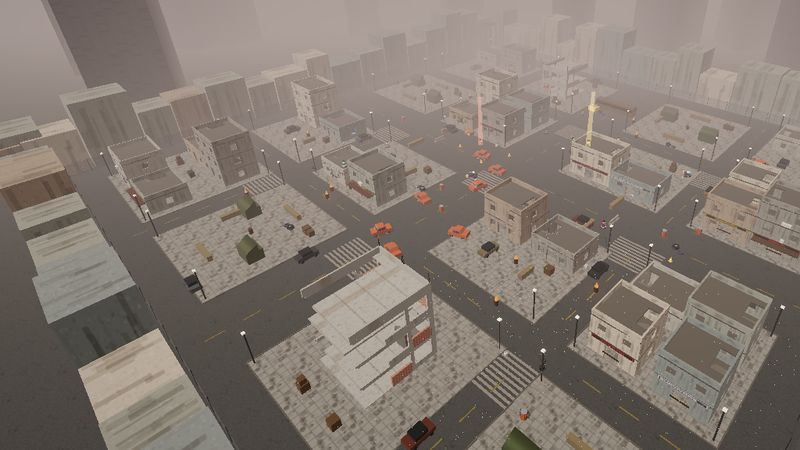
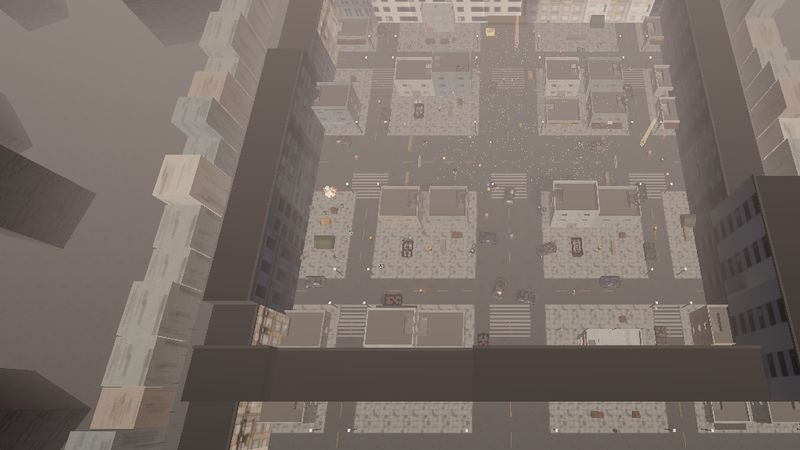
Shooter maps: photo-facade building ring at the play-zone edge
- Each shooter map is enclosed by a continuous row of buildings textured with real
  facade photos (Postwar City, CC BY 4.0), so the walkable limit is a visible street end
- Everything outside the zone is cropped; towers capped so they don't dwarf the arena
- Map previews re-rendered

Claude-Session: https://claude.ai/code/session_01TgEUxabUNaEosqrhebbJP7

diff --git a/index.html b/index.html
@@ -449,7 +449,7 @@
         <div class="secT">วิธีเล่น</div>
         <div class="small" style="text-align:left;line-height:1.7">🏁 <b>วิ่งแข่ง</b> ตอบโจทย์ให้ถูกและไว ยิ่งไวยิ่งวิ่งไกล ถึงเส้นชัยก่อนชนะ<br>🎯 <b>ยิงปืน</b> WASD เดิน · Shift วิ่ง · Space กระโดด · C นั่ง · คลิกซ้ายยิง · คลิกขวาเล็ง · 1/2/3 เปลี่ยนปืน · ยิงได้ 15 ครั้งก่อนหรือคะแนนสูงสุดใน 3 นาทีชนะ</div>
         <div class="secT">เครดิต</div>
-        <div class="small" style="text-align:left;line-height:1.7">VANGUARD ดัดแปลงจาก <a href="https://sketchfab.com/3d-models/bulletstorm-confederate-soldier-0222bdc42b2e4b8e948bc527c56955c7" style="color:#39FF14" target="_blank" rel="noopener">"Bulletstorm - Confederate Soldier"</a> และ TITAN ดัดแปลงจาก <a href="https://sketchfab.com/3d-models/bulletstorm-heavy-echo-elite-shocktroopers-b6e4bae740f64a3eaec74825cc3594f1" style="color:#39FF14" target="_blank" rel="noopener">"Bulletstorm - Heavy Echo Elite Shocktroopers"</a> โดย <a href="https://sketchfab.com/Barcelo" style="color:#39FF14" target="_blank" rel="noopener">Barcelo</a> สัญญาอนุญาต <a href="https://creativecommons.org/licenses/by-nc/4.0/" style="color:#39FF14" target="_blank" rel="noopener">CC BY-NC 4.0</a> (ห้ามใช้เชิงพาณิชย์) — ดัดแปลง: จัดท่าแขน ปรับขนาด ผูกโครงกระดูกใหม่ ลดขนาดเท็กซ์เจอร์<br>VIPER ดัดแปลงจาก <a href="https://sketchfab.com/3d-models/sexy-necromancer-12221428cf0c4e9580d65d146e5f8798" style="color:#39FF14" target="_blank" rel="noopener">"Sexy Necromancer"</a> โดย <a href="https://sketchfab.com/jeraynor979" style="color:#39FF14" target="_blank" rel="noopener">jeraynor979</a> — <a href="https://creativecommons.org/licenses/by/4.0/" style="color:#39FF14" target="_blank" rel="noopener">CC BY 4.0</a> (ดัดแปลง: ลดโพลิกอน ใส่โครงกระดูก จัดท่าแขน-ขาใหม่)<br>รถยนต์: <a href="https://github.com/KhronosGroup/glTF-Sample-Assets/tree/main/Models/CarConcept" style="color:#39FF14" target="_blank" rel="noopener">"Car Concept"</a> — Khronos Group (ต้นแบบ public domain โดย Unity Fan) — <a href="https://creativecommons.org/licenses/by/4.0/" style="color:#39FF14" target="_blank" rel="noopener">CC BY 4.0</a> (ดัดแปลง: ลดโพลิกอน เอาป้ายทะเบียนออก เปลี่ยนสี)<br>ของประกอบฉาก: Quaternius และ Brazil Lowpoly Props Kit (kayquer) — CC0<br>GHOUL และซอมบี้ NPC ดัดแปลงจาก <a href="https://sketchfab.com/3d-models/giant-humanoid-zombie-bed2a788157242c9881cd980bfd55ddf" style="color:#39FF14" target="_blank" rel="noopener">"Giant humanoid zombie"</a> โดย <a href="https://sketchfab.com/shivaykaran1434" style="color:#39FF14" target="_blank" rel="noopener">shivaykaran1434</a> — <a href="https://creativecommons.org/licenses/by/4.0/" style="color:#39FF14" target="_blank" rel="noopener">CC BY 4.0</a> (ดัดแปลง: ลดโพลิกอน ใส่โครงกระดูก จัดท่าแขน เพิ่มเสื้อผ้าขาด)<br>ปืน: <a href="https://sketchfab.com/3d-models/desert-eagle-gun-1605b6c38826433fb3fe564e1d043199" style="color:#39FF14" target="_blank" rel="noopener">"Desert Eagle Gun"</a> โดย attix84work · <a href="https://sketchfab.com/3d-models/gun-m4a1-d41a80aa5bc14742be249d2e8e7369b9" style="color:#39FF14" target="_blank" rel="noopener">"Gun M4A1"</a> โดย Ivan008 · <a href="https://sketchfab.com/3d-models/sniper-cdefd833b4b5407ba32c53c9e7f50cae" style="color:#39FF14" target="_blank" rel="noopener">"Sniper"</a> โดย DJMaesen — สัญญาอนุญาต <a href="https://creativecommons.org/licenses/by/4.0/" style="color:#39FF14" target="_blank" rel="noopener">CC BY 4.0</a> (ดัดแปลง: ลดโพลิกอน ปรับขนาดและทิศ)</div>
+        <div class="small" style="text-align:left;line-height:1.7">VANGUARD ดัดแปลงจาก <a href="https://sketchfab.com/3d-models/bulletstorm-confederate-soldier-0222bdc42b2e4b8e948bc527c56955c7" style="color:#39FF14" target="_blank" rel="noopener">"Bulletstorm - Confederate Soldier"</a> และ TITAN ดัดแปลงจาก <a href="https://sketchfab.com/3d-models/bulletstorm-heavy-echo-elite-shocktroopers-b6e4bae740f64a3eaec74825cc3594f1" style="color:#39FF14" target="_blank" rel="noopener">"Bulletstorm - Heavy Echo Elite Shocktroopers"</a> โดย <a href="https://sketchfab.com/Barcelo" style="color:#39FF14" target="_blank" rel="noopener">Barcelo</a> สัญญาอนุญาต <a href="https://creativecommons.org/licenses/by-nc/4.0/" style="color:#39FF14" target="_blank" rel="noopener">CC BY-NC 4.0</a> (ห้ามใช้เชิงพาณิชย์) — ดัดแปลง: จัดท่าแขน ปรับขนาด ผูกโครงกระดูกใหม่ ลดขนาดเท็กซ์เจอร์<br>VIPER ดัดแปลงจาก <a href="https://sketchfab.com/3d-models/sexy-necromancer-12221428cf0c4e9580d65d146e5f8798" style="color:#39FF14" target="_blank" rel="noopener">"Sexy Necromancer"</a> โดย <a href="https://sketchfab.com/jeraynor979" style="color:#39FF14" target="_blank" rel="noopener">jeraynor979</a> — <a href="https://creativecommons.org/licenses/by/4.0/" style="color:#39FF14" target="_blank" rel="noopener">CC BY 4.0</a> (ดัดแปลง: ลดโพลิกอน ใส่โครงกระดูก จัดท่าแขน-ขาใหม่)<br>รถยนต์: <a href="https://github.com/KhronosGroup/glTF-Sample-Assets/tree/main/Models/CarConcept" style="color:#39FF14" target="_blank" rel="noopener">"Car Concept"</a> — Khronos Group (ต้นแบบ public domain โดย Unity Fan) — <a href="https://creativecommons.org/licenses/by/4.0/" style="color:#39FF14" target="_blank" rel="noopener">CC BY 4.0</a> (ดัดแปลง: ลดโพลิกอน เอาป้ายทะเบียนออก เปลี่ยนสี)<br>ภาพตึกขอบด่าน: จาก <a href="https://sketchfab.com/3d-models/postwar-city-exterior-scene-30b694d1a4074855a1116a15a0f75731" style="color:#39FF14" target="_blank" rel="noopener">"Postwar City - Exterior Scene"</a> โดย <a href="https://sketchfab.com/aurelien_martel" style="color:#39FF14" target="_blank" rel="noopener">Aurélien Martel</a> — <a href="https://creativecommons.org/licenses/by/4.0/" style="color:#39FF14" target="_blank" rel="noopener">CC BY 4.0</a> (ตัดภาพ facade มาใช้)<br>ของประกอบฉาก: Quaternius และ Brazil Lowpoly Props Kit (kayquer) — CC0<br>GHOUL และซอมบี้ NPC ดัดแปลงจาก <a href="https://sketchfab.com/3d-models/giant-humanoid-zombie-bed2a788157242c9881cd980bfd55ddf" style="color:#39FF14" target="_blank" rel="noopener">"Giant humanoid zombie"</a> โดย <a href="https://sketchfab.com/shivaykaran1434" style="color:#39FF14" target="_blank" rel="noopener">shivaykaran1434</a> — <a href="https://creativecommons.org/licenses/by/4.0/" style="color:#39FF14" target="_blank" rel="noopener">CC BY 4.0</a> (ดัดแปลง: ลดโพลิกอน ใส่โครงกระดูก จัดท่าแขน เพิ่มเสื้อผ้าขาด)<br>ปืน: <a href="https://sketchfab.com/3d-models/desert-eagle-gun-1605b6c38826433fb3fe564e1d043199" style="color:#39FF14" target="_blank" rel="noopener">"Desert Eagle Gun"</a> โดย attix84work · <a href="https://sketchfab.com/3d-models/gun-m4a1-d41a80aa5bc14742be249d2e8e7369b9" style="color:#39FF14" target="_blank" rel="noopener">"Gun M4A1"</a> โดย Ivan008 · <a href="https://sketchfab.com/3d-models/sniper-cdefd833b4b5407ba32c53c9e7f50cae" style="color:#39FF14" target="_blank" rel="noopener">"Sniper"</a> โดย DJMaesen — สัญญาอนุญาต <a href="https://creativecommons.org/licenses/by/4.0/" style="color:#39FF14" target="_blank" rel="noopener">CC BY 4.0</a> (ดัดแปลง: ลดโพลิกอน ปรับขนาดและทิศ)</div>
       </div>
     </div>
   </section>
@@ -4657,6 +4657,35 @@ function shooterFrame(dt, t) {
 }
 // ---------- แผนที่ย่อ ----------
 const MINI = {};
+
+/* ---------- ขอบด่าน = แนวตึกภาพถ่ายจริง (ไม่มีกำแพงล่องหน) — facade จาก "Postwar City" (Aurélien Martel, CC BY 4.0) ---------- */
+const FAC = {"A":[588,680,3],"B":[588,640,5],"C":[468,640,5],"D":[268,572,5],"E":[640,596,5],"F":[448,652,5],"G":[372,640,4],"I":[240,568,5],"J":[348,1024,14],"K":[192,928,13],"M":[352,396,4],"N":[400,348,4],"O":[308,388,4],"P":[304,384,4]};
+const FAC_TEX = {}, RINGS = [];
+function facTex(k) { if (!FAC_TEX[k]) { const t = new THREE.TextureLoader().load(`assets/fac/${k}.jpg`); t.colorSpace = THREE.SRGBColorSpace; t.wrapS = THREE.RepeatWrapping; t.wrapT = THREE.RepeatWrapping; t.anisotropy = 8; FAC_TEX[k] = t; } return FAC_TEX[k]; }
+function buildRing(m) {
+  if (RINGS[m] || !PLAY[m]) return RINGS[m];
+  const B = PLAY[m], g = new THREE.Group(); g.userData.noCrop = true; g.visible = false; scene.add(g);
+  const R = seeded(5150 + m * 77), keys = Object.keys(FAC), conc = toon(m === 2 ? '#4d4c48' : '#6f6c66'), roofM = toon('#3a3936'), y0 = m === 4 ? -0.4 : -0.05, gap = 0.8, D = 10;
+  const side = (ax, fixed, a0, a1, inward) => {
+    let t = a0 - D;
+    while (t < a1 + D) {
+      const k = keys[(R() * keys.length) | 0], [w, h, fl] = FAC[k], th = fl * 4.4, tw = th * w / h, vr = Math.max(1, Math.ceil(17 / th)), reps = tw < 9 ? 2 + ((R() * 2) | 0) : 1 + ((R() * 2) | 0);
+      const W = tw * reps, H = Math.min(th * vr, 34), tex = facTex(k).clone(); tex.needsUpdate = true; tex.repeat.set(reps, H / th);
+      const fm = new THREE.MeshStandardMaterial({ map: tex, color: new THREE.Color(1.6, 1.56, 1.5), roughness: 0.88, metalness: 0 });
+      const mats = [conc, conc, roofM, conc, conc, conc]; const geo = ax === 'x' ? new THREE.BoxGeometry(W, H, D) : new THREE.BoxGeometry(D, H, W);
+      const fi = ax === 'x' ? (inward > 0 ? 4 : 5) : (inward > 0 ? 0 : 1); mats[fi] = fm;
+      const o = new THREE.Mesh(geo, mats), c = t + W / 2, off = fixed - inward * (gap + D / 2);
+      if (ax === 'x') o.position.set(c, y0 + H / 2, off); else o.position.set(off, y0 + H / 2, c);
+      o.receiveShadow = true; g.add(o);
+      // ขอบหลังคา
+      const lip = new THREE.Mesh(ax === 'x' ? new THREE.BoxGeometry(W, 0.6, 0.5) : new THREE.BoxGeometry(0.5, 0.6, W), conc);
+      lip.position.copy(o.position); lip.position.y = y0 + H + 0.3; if (ax === 'x') lip.position.z = fixed - inward * (gap + 0.25); else lip.position.x = fixed - inward * (gap + 0.25); g.add(lip);
+      t += W;
+    }
+  };
+  side('x', B.z0, B.x0, B.x1, 1); side('x', B.z1, B.x0, B.x1, -1); side('z', B.x0, B.z0, B.z1, 1); side('z', B.x1, B.z0, B.z1, -1);
+  return (RINGS[m] = g);
+}
 // ด่านยิง: ตัดทุกอย่างที่อยู่นอกพื้นที่เล่นออก (คงพื้น/ท้องฟ้า/ทะเลไว้) — คืนค่าเมื่อออกจากด่าน
 const CROP = { m: null, list: [], inst: [] };
 function cropMap(m) {
@@ -4676,11 +4705,11 @@ function cropMap(m) {
       o.instanceMatrix.needsUpdate = true; return;
     }
     bx.setFromObject(o); if (bx.isEmpty()) return;
-    if (bx.max.x - bx.min.x > 140 || bx.max.z - bx.min.z > 140) return;
+    if ((bx.max.x - bx.min.x > 140 || bx.max.z - bx.min.z > 140) && bx.max.y - bx.min.y < 3) return;
     if (outside(bx.min.x, bx.max.x, bx.min.z, bx.max.z)) { o.visible = false; CROP.list.push(o); }
   });
 }
-function fenceTick() { const inR = !!(S && S.players.some(p => p.id === myId)), on = inR && S.mode === 'shoot' && S.state !== 'lobby'; cropMap(on ? S.map : null); (world.propG || []).forEach((g, m) => { if (g) g.visible = inR && S.state !== 'lobby' && S.map === m; }); }
+function fenceTick() { const inR = !!(S && S.players.some(p => p.id === myId)), on = inR && S.mode === 'shoot' && S.state !== 'lobby'; cropMap(on ? S.map : null); for (let k = 1; k < PLAY.length; k++) { const rg = on && S.map === k ? buildRing(k) : RINGS[k]; if (rg) rg.visible = on && S.map === k; } (world.propG || []).forEach((g, m) => { if (g) g.visible = inR && S.state !== 'lobby' && S.map === m; }); }
 function miniExtent(m) { const B = PLAY[m]; return B ? Math.max(-B.x0, B.x1, -B.z0, B.z1) + 2 : L / 2 + ARENA[m] + 2; }
 function miniStatic(m) {
   if (MINI[m]) return MINI[m];
